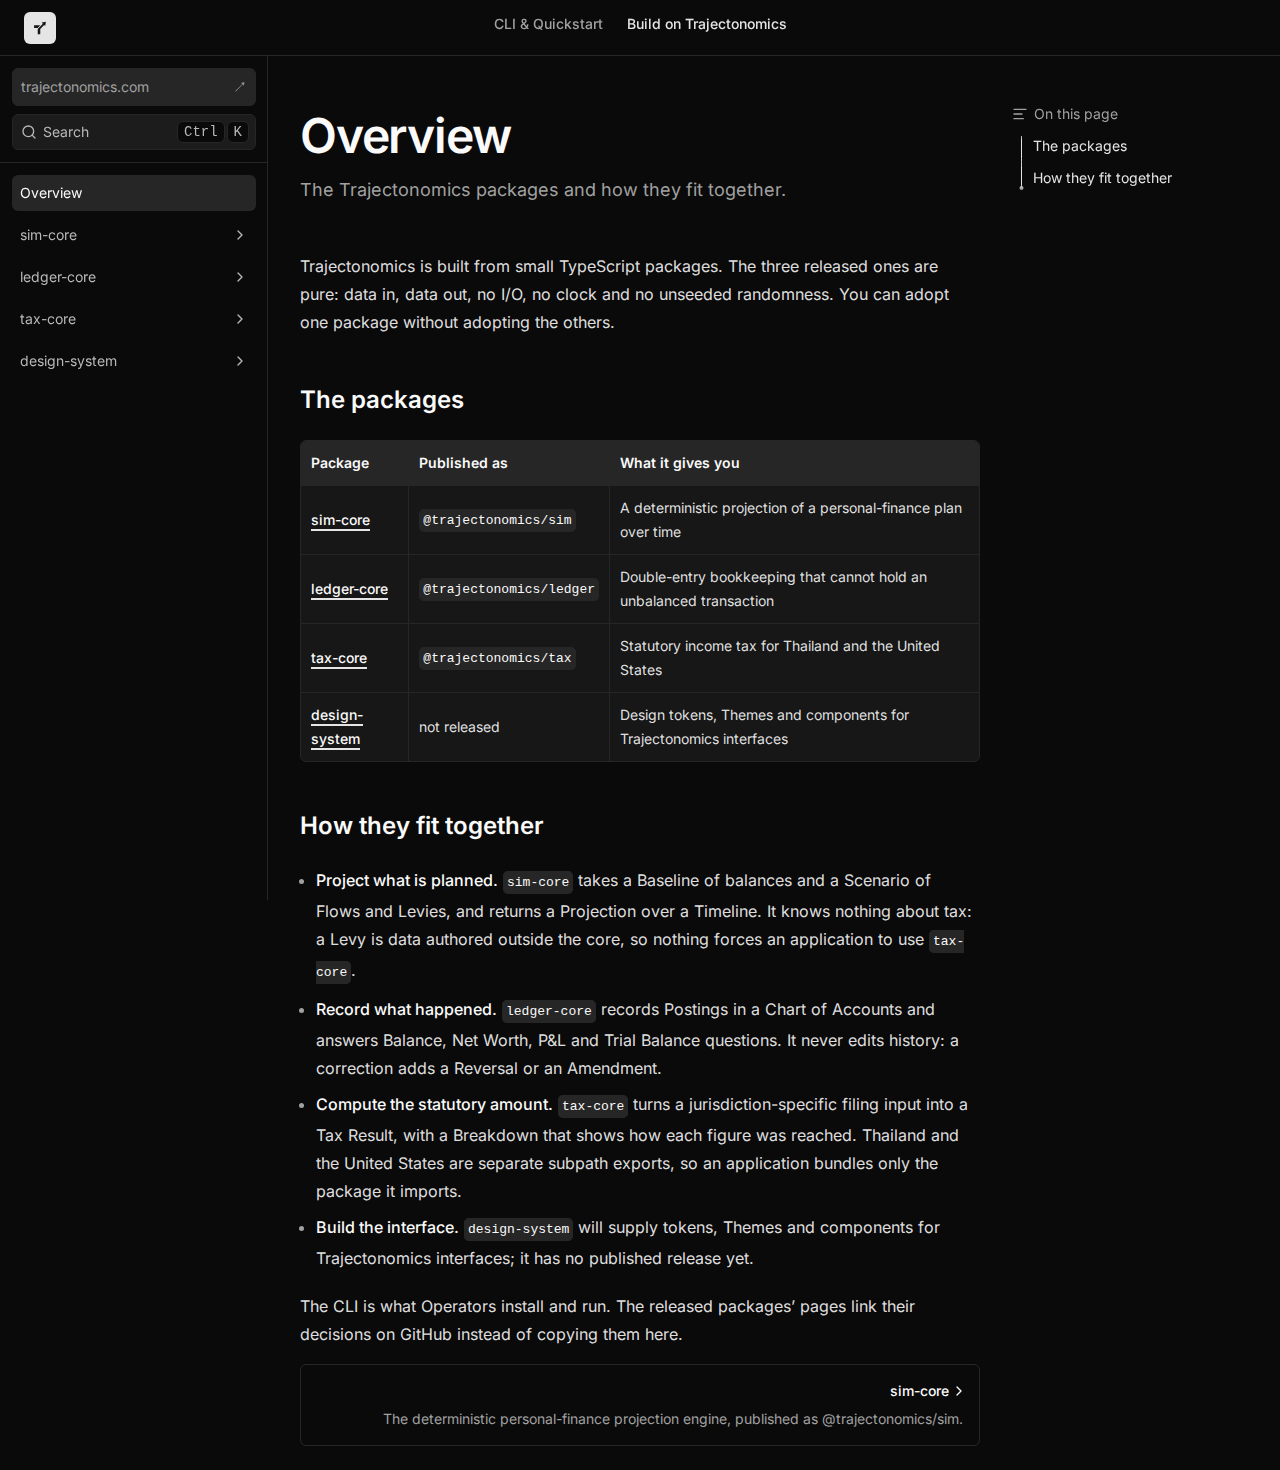
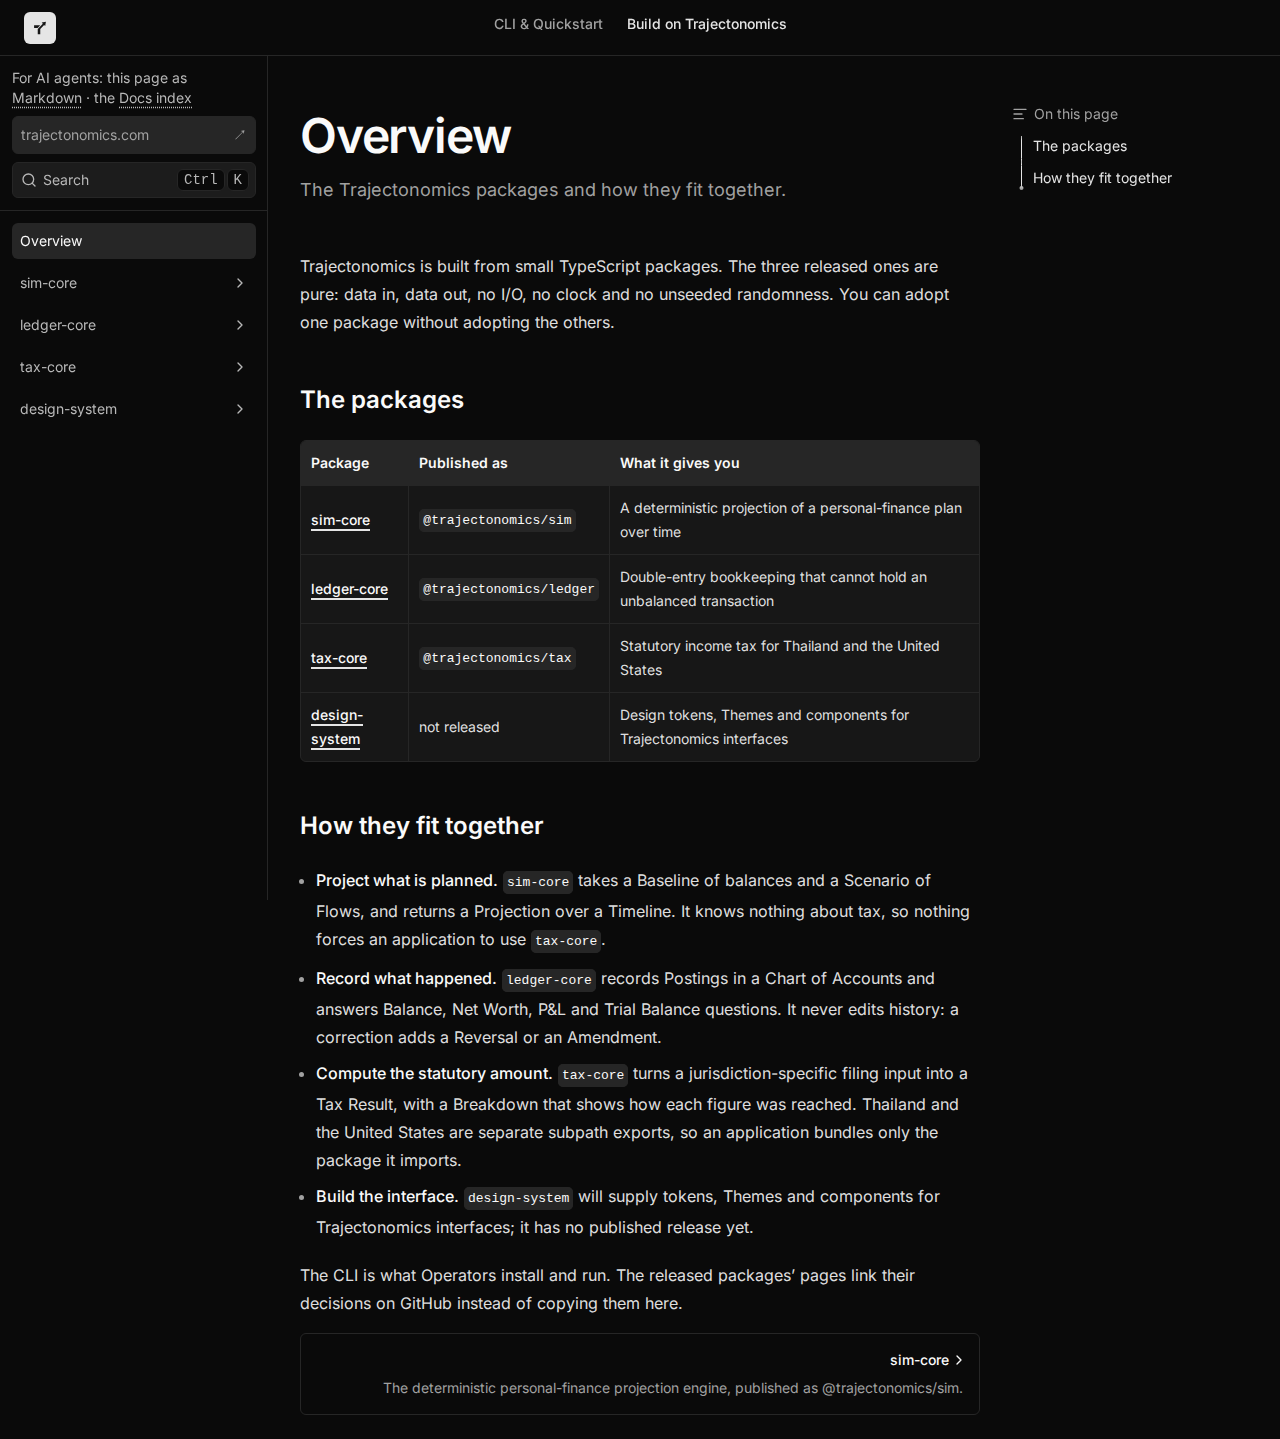
feat: point every page at its Markdown twin and the Docs index
Every page with a Markdown twin carries the one muted agent line, "For AI
agents: this page as Markdown · the Docs index", in its top utility area:
at the top of the docs pages' sidebar block, above the Site Home button,
and in the Landing Page's header link row beside Site Home, never in its
body. Each page's head carries the alternate Markdown link.

The line is one shared component; its Markdown link is derived from the
current pathname, which the Client Router announces with
`astro:page-load`, so the link names the page the reader is on rather
than the page the island rendered on. Both links load their own document:
a twin and the index are not pages to swap in.

The 404 page keeps the home layout's shared options, so it carries
neither the line nor an alternate link. The curated screenshots at 1280,
2000 and 390px in both committed theme sets are regenerated, and
e2e/agent-line.e2e.ts holds the line, the head link, their placements and
the client-side navigation.

Closes #131

diff --git a/e2e/agent-line.e2e.ts b/e2e/agent-line.e2e.ts
@@ -1,0 +1,184 @@
+import type { Page } from "@playwright/test"
+import { twinPath } from "../src/lib/agent/twin-path"
+import {
+	AGENT_LINE_PREFIX,
+	AGENT_LINE_SEPARATOR,
+	DOCS_INDEX_LINK_NAME,
+	MARKDOWN_LINK_NAME,
+} from "../src/lib/agent-line"
+import { DOCS_BASE_PATH, DOCS_INDEX_PATH, TABS, tabUrl } from "../src/lib/tabs"
+import { builtPages, NOT_FOUND_PATH, openPage, pageName } from "./built-site"
+import { openPhoneMenu, openSidebarDrawer, waitForIsland } from "./docs-portal"
+import { expect, test } from "./fixtures"
+import { TEST_VIEWPORT_HEIGHT_PX } from "./viewports"
+
+/** The Landing Page, whose line sits in the header link row rather than in a sidebar block. */
+const LANDING_PATH = `${DOCS_BASE_PATH}/`
+
+/** The line as the reader reads it: the words, then each link under the name it carries. */
+const SENTENCE = `${AGENT_LINE_PREFIX} ${MARKDOWN_LINK_NAME} ${AGENT_LINE_SEPARATOR} the ${DOCS_INDEX_LINK_NAME}`
+
+/** The line the page shows; a docs page renders one copy in the sidebar and one in the drawer. */
+function agentLine(page: Page) {
+	return page.locator("[data-agent-line]").filter({ visible: true })
+}
+
+/** The page's alternate Markdown link, the one an Agent reads instead of the affordance. */
+function alternateLink(page: Page) {
+	return page.locator('link[rel="alternate"][type="text/markdown"]')
+}
+
+/** The page's two links, each under the name the brief gives it. */
+async function expectLinks(page: Page, path: string): Promise<void> {
+	const line = agentLine(page)
+	await expect(line, `${path} carries one visible line`).toHaveCount(1)
+	await expect(line).toHaveText(SENTENCE)
+	await expect(
+		line.getByRole("link", { name: MARKDOWN_LINK_NAME, exact: true }),
+		`${path} points at its Markdown twin`,
+	).toHaveAttribute("href", twinPath(path))
+	await expect(
+		line.getByRole("link", { name: DOCS_INDEX_LINK_NAME, exact: true }),
+		`${path} points at the Docs index`,
+	).toHaveAttribute("href", DOCS_INDEX_PATH)
+}
+
+for (const widthPx of [1280, 2000]) {
+	for (const path of builtPages()) {
+		test(`the ${pageName(path)} page points at its Markdown twin at ${widthPx}px`, async ({
+			page,
+		}) => {
+			await page.setViewportSize({ width: widthPx, height: TEST_VIEWPORT_HEIGHT_PX })
+			await openPage(page, path)
+			await waitForIsland(page)
+
+			await expect(alternateLink(page)).toHaveAttribute("href", twinPath(path))
+			await expectLinks(page, path)
+		})
+	}
+}
+
+test("the 404 page carries neither the line nor an alternate Markdown link", async ({ page }) => {
+	await openPage(page, NOT_FOUND_PATH)
+	await waitForIsland(page)
+
+	await expect(page.locator("[data-agent-line]")).toHaveCount(0)
+	await expect(alternateLink(page)).toHaveCount(0)
+})
+
+test("the docs line sits at the top of the sidebar block, above the Site Home button", async ({
+	page,
+}) => {
+	await page.setViewportSize({ width: 1280, height: TEST_VIEWPORT_HEIGHT_PX })
+	await openPage(page, tabUrl(TABS[0]))
+	await waitForIsland(page)
+
+	const block = page.locator("#nd-sidebar [data-sidebar-top-block]")
+	await expect(block.locator("[data-agent-line]")).toBeVisible()
+	const lineAboveSiteHome = await block.evaluate((element) => {
+		const line = element.querySelector("[data-agent-line]")
+		const siteHome = element.querySelector("[data-site-home]")
+		if (line === null || siteHome === null) return false
+		const following = line.compareDocumentPosition(siteHome) & Node.DOCUMENT_POSITION_FOLLOWING
+		return following !== 0
+	})
+	expect(lineAboveSiteHome, "the line stands above the Site Home button").toBe(true)
+	// The docs header keeps the mark and the Tabs: the line never moves into the header (ADR 0009).
+	await expect(page.locator("#nd-subnav [data-agent-line]")).toHaveCount(0)
+})
+
+test("the docs line is behind the Open Sidebar control at 390px", async ({ page }) => {
+	await page.setViewportSize({ width: 390, height: TEST_VIEWPORT_HEIGHT_PX })
+	await openPage(page, tabUrl(TABS[0]))
+	await waitForIsland(page)
+	await expect(agentLine(page)).toHaveCount(0)
+
+	await openSidebarDrawer(page)
+
+	await expectLinks(page, tabUrl(TABS[0]))
+	await expect(page.locator("#nd-sidebar-mobile [data-agent-line]")).toBeVisible()
+})
+
+test("the line's two links load the twin and the index as their own documents", async ({
+	page,
+}) => {
+	const from = tabUrl(TABS[0])
+	await page.setViewportSize({ width: 1280, height: TEST_VIEWPORT_HEIGHT_PX })
+	await openPage(page, from)
+	await waitForIsland(page)
+	const documents: string[] = []
+	page.on("request", (request) => {
+		if (request.resourceType() === "document") documents.push(new URL(request.url()).pathname)
+	})
+	const line = page.locator("#nd-sidebar [data-agent-line]")
+
+	await line.getByRole("link", { name: MARKDOWN_LINK_NAME, exact: true }).click()
+	await expect(page).toHaveURL(twinPath(from))
+	await expect(page.locator("body")).toContainText("# Quickstart")
+	expect(documents, "the twin loaded as its own document").toEqual([twinPath(from)])
+
+	documents.length = 0
+	await openPage(page, from)
+	await waitForIsland(page)
+	documents.length = 0
+	await page
+		.locator("#nd-sidebar [data-agent-line]")
+		.getByRole("link", { name: DOCS_INDEX_LINK_NAME, exact: true })
+		.click()
+	await expect(page).toHaveURL(DOCS_INDEX_PATH)
+	await expect(page.locator("body")).toContainText("# Trajectonomics Docs")
+	expect(documents, "the index loaded as its own document").toEqual([DOCS_INDEX_PATH])
+})
+
+test("the Landing Page's line sits in its header link row, never in its body", async ({ page }) => {
+	await page.setViewportSize({ width: 1280, height: TEST_VIEWPORT_HEIGHT_PX })
+	await openPage(page, LANDING_PATH)
+	await waitForIsland(page)
+
+	await expectLinks(page, LANDING_PATH)
+	// The header's own link row carries it; the page body keeps its own parts (ADR 0009's amendment).
+	const headerLine = page.locator("#nd-nav").locator("[data-agent-line]").filter({ visible: true })
+	await expect(headerLine).toHaveCount(1)
+	await expect(page.locator("#nd-home-layout > div [data-agent-line]")).toHaveCount(0)
+})
+
+test("the Landing Page's line is in the header menu at 390px", async ({ page }) => {
+	await page.setViewportSize({ width: 390, height: TEST_VIEWPORT_HEIGHT_PX })
+	await openPage(page, LANDING_PATH)
+	await waitForIsland(page)
+	await expect(agentLine(page)).toHaveCount(0)
+
+	await openPhoneMenu(page)
+
+	await expectLinks(page, LANDING_PATH)
+	const menuLine = page.locator("#nd-nav").locator("[data-agent-line]").filter({ visible: true })
+	await expect(menuLine).toHaveCount(1)
+})
+
+test("the line's Markdown link names the page the reader lands on, not the one it rendered on", async ({
+	page,
+}) => {
+	const from = tabUrl(TABS[0])
+	const to = `${from}installation/`
+	await page.setViewportSize({ width: 1280, height: TEST_VIEWPORT_HEIGHT_PX })
+	let documentRequests = 0
+	page.on("request", (request) => {
+		if (request.resourceType() === "document") documentRequests++
+	})
+	await openPage(page, from)
+	await waitForIsland(page)
+	const line = page.locator("#nd-sidebar [data-agent-line]")
+	await expect(line.getByRole("link", { name: MARKDOWN_LINK_NAME })).toHaveAttribute(
+		"href",
+		twinPath(from),
+	)
+
+	await page.locator("#nd-sidebar").getByRole("link", { name: "Installation" }).click()
+
+	await expect(page).toHaveURL(to)
+	await expect(line.getByRole("link", { name: MARKDOWN_LINK_NAME })).toHaveAttribute(
+		"href",
+		twinPath(to),
+	)
+	expect(documentRequests, "the reader stayed in one document").toBe(1)
+})

diff --git a/src/components/docs-shell.tsx b/src/components/docs-shell.tsx
@@ -6,6 +6,7 @@ import {
 } from "fumadocs-ui/layouts/shared/slots/search-trigger"
 import type { FC, ReactNode } from "react"
 import { siteHomeButton } from "../lib/layout.shared"
+import { AgentLine } from "./agent-line"
 
 /** The header's Tab treatment: Fumadocs' own, carried over from the row this change removes. */
 const TAB_CLASS =
@@ -55,6 +56,11 @@ export const noHeaderSearchTrigger: {
 
 export interface DocsSidebarBannerProps {
 	/**
+	 * The page the block first rendered on. The agent line follows the reader from there through the
+	 * Client Router, which keeps this block mounted (see `AgentLine`).
+	 */
+	readonly pageUrl: string
+	/**
 	 * What Fumadocs draws in a sidebar header: the Tab dropdown at every width, and in the drawer the
 	 * close button beside it. The block places them below its hairline rather than re-creating them.
 	 */
@@ -62,15 +68,17 @@ export interface DocsSidebarBannerProps {
 }
 
 /**
- * The sidebar's top block: the way back to the Site Home above the search trigger, a hairline under
- * them, then the header children Fumadocs passes a banner — its Tab dropdown, and in the drawer its
- * close button, drawn by the library rather than by this block. The tree follows the block; from
- * `lg` up it follows the hairline, because the dropdown is hidden there (ADR 0009).
+ * The sidebar's top block: the agent line and the way back to the Site Home above the search
+ * trigger, a hairline under them, then the header children Fumadocs passes a banner — its Tab
+ * dropdown, and in the drawer its close button, drawn by the library rather than by this block. The
+ * tree follows the block; from `lg` up it follows the hairline, because the dropdown is hidden
+ * there (ADR 0009, ADR 0010).
  */
-export function DocsSidebarBanner({ children }: DocsSidebarBannerProps) {
+export function DocsSidebarBanner({ pageUrl, children }: DocsSidebarBannerProps) {
 	return (
 		<div data-sidebar-top-block="" className="flex flex-col">
 			<div className="flex flex-col gap-2 border-b p-3">
+				<AgentLine pageUrl={pageUrl} />
 				{siteHomeButton()}
 				<FullSearchTrigger hideIfDisabled />
 			</div>

diff --git a/src/lib/layout.shared.tsx b/src/lib/layout.shared.tsx
@@ -1,4 +1,5 @@
 import type { BaseLayoutProps, LinkItemType } from "fumadocs-ui/layouts/shared"
+import { AgentLine } from "../components/agent-line"
 import { HeaderMark } from "../components/header-mark"
 import { SITE_HOME_LABEL, SITE_HOME_LOAD, SITE_HOME_PATH } from "./site-home"
 import { DOCS_BASE_PATH } from "./tabs"
@@ -54,6 +55,19 @@ export function siteHomeButton() {
 }
 
 /**
+ * The agent line the Landing Page's header carries beside the Site Home link (ADR 0010): one item
+ * for the header's link row from `sm` up and one for the phone menu, because the home layout nests
+ * a custom item differently in each.
+ */
+function homeAgentLineLinks(pageUrl: string): readonly LinkItemType[] {
+	const line = <AgentLine pageUrl={pageUrl} />
+	return [
+		{ type: "custom", on: "nav", children: <li>{line}</li> },
+		{ type: "custom", on: "menu", children: line },
+	]
+}
+
+/**
  * Layout options shared by every Docs Portal page of `layout`. Every page carries the Portal's one
  * header mark, here and nowhere else, so a page cannot choose another (docs#75, ADR 0009). The docs
  * pages carry no header link items: the Site Home is the sidebar's button, and the Tabs are the
@@ -68,4 +82,14 @@ export function baseOptions(layout: PortalLayout): BaseLayoutProps {
 		// one. Light's return flips this option and deletes the provider's forced value.
 		themeSwitch: { enabled: false },
 	}
+}
+
+/**
+ * Layout options for the Landing Page: the home layout's shared ones plus the agent line its header
+ * carries beside the Site Home link (ADR 0010). The 404 page keeps `baseOptions("home")`: it has no
+ * Markdown twin, so it carries neither that line nor an alternate link.
+ */
+export function landingOptions(pageUrl: string): BaseLayoutProps {
+	const options = baseOptions("home")
+	return { ...options, links: [...(options.links ?? []), ...homeAgentLineLinks(pageUrl)] }
 }

diff --git a/src/components/agent-line.tsx b/src/components/agent-line.tsx
@@ -1,0 +1,47 @@
+import { useEffect, useState } from "react"
+import { twinPath } from "../lib/agent/twin-path"
+import {
+	AGENT_LINE_LOAD,
+	AGENT_LINE_PREFIX,
+	AGENT_LINE_SEPARATOR,
+	DOCS_INDEX_LINK_NAME,
+	MARKDOWN_LINK_NAME,
+} from "../lib/agent-line"
+import { DOCS_INDEX_PATH } from "../lib/tabs"
+
+/** One of the line's two links: the line is body text, so a link adds an underline and nothing else. */
+const LINK_CLASS =
+	"underline decoration-dotted underline-offset-4 transition-colors hover:text-fd-accent-foreground"
+
+/**
+ * The path the reader is on. The docs pages' line lives in a React island the Client Router keeps
+ * mounted across navigations, so a pathname captured at first render would name the page the reader
+ * arrived on; the router announces each navigation with `astro:page-load`, and the line follows it.
+ */
+function useCurrentPathname(initialPathname: string): string {
+	const [pathname, setPathname] = useState(initialPathname)
+	useEffect(() => {
+		const follow = () => setPathname(window.location.pathname)
+		follow()
+		document.addEventListener("astro:page-load", follow)
+		return () => document.removeEventListener("astro:page-load", follow)
+	}, [])
+	return pathname
+}
+
+/** The one muted line pointing a reader, and an Agent, at this page's Markdown twin and the Docs index. */
+export function AgentLine({ pageUrl }: { readonly pageUrl: string }) {
+	const twin = twinPath(useCurrentPathname(pageUrl))
+	return (
+		<p data-agent-line="" className="text-sm text-fd-muted-foreground">
+			{AGENT_LINE_PREFIX}{" "}
+			<a href={twin} {...AGENT_LINE_LOAD} className={LINK_CLASS}>
+				{MARKDOWN_LINK_NAME}
+			</a>{" "}
+			{AGENT_LINE_SEPARATOR} the{" "}
+			<a href={DOCS_INDEX_PATH} {...AGENT_LINE_LOAD} className={LINK_CLASS}>
+				{DOCS_INDEX_LINK_NAME}
+			</a>
+		</p>
+	)
+}

diff --git a/src/lib/agent-line.ts b/src/lib/agent-line.ts
@@ -1,0 +1,26 @@
+/**
+ * The line every page with a Markdown twin carries: the words before its two links, the names the
+ * links are read by, and the separator between them. Pure, so a test asserts the pointer a reader
+ * meets without loading the React shell (ADR 0010).
+ */
+
+/** The words the line shows before its two links. */
+export const AGENT_LINE_PREFIX = "For AI agents: this page as"
+
+/** The name of the line's link to the page's Markdown twin. */
+export const MARKDOWN_LINK_NAME = "Markdown"
+
+/** The name of the line's link to the Docs index, the file an Agent reads first. */
+export const DOCS_INDEX_LINK_NAME = "Docs index"
+
+/** The separator the line shows between its two links. */
+export const AGENT_LINE_SEPARATOR = "·"
+
+/**
+ * Attributes that load a twin or the Docs index as its own document: neither is a page the Client
+ * Router can swap in, so neither is prefetched or intercepted (ADR 0010).
+ */
+export const AGENT_LINE_LOAD = {
+	"data-astro-reload": true,
+	"data-astro-prefetch": "false",
+} as const

diff --git a/src/components/landing.tsx b/src/components/landing.tsx
@@ -1,5 +1,5 @@
 import { HomeLayout } from "fumadocs-ui/layouts/home"
-import { baseOptions } from "../lib/layout.shared"
+import { landingOptions } from "../lib/layout.shared"
 import { PORTAL_NAME, PORTAL_PURPOSE } from "../lib/portal"
 import { SITE_HOME_LOAD, SITE_HOME_PATH } from "../lib/site-home"
 import { TABS, tabUrl } from "../lib/tabs"
@@ -54,7 +54,7 @@ export interface LandingProps extends ProviderProps {
 export function Landing({ releaseLine, ...props }: LandingProps) {
 	return (
 		<Provider {...props}>
-			<HomeLayout {...baseOptions("home")}>
+			<HomeLayout {...landingOptions(props.pathname)}>
 				<div className="mx-auto flex w-full max-w-(--fd-layout-width) flex-1 flex-col gap-8 px-4 py-16 md:px-6">
 					<div className="flex flex-col gap-3">
 						<h1 className="text-3xl font-semibold tracking-tight">{PORTAL_NAME}</h1>

diff --git a/src/components/docs.tsx b/src/components/docs.tsx
@@ -55,7 +55,7 @@ export function Docs({ tree, title, description, toc, children, ...props }: Docs
 				sidebar={{
 					className: "border-e",
 					collapsible: false,
-					banner: (bannerProps) => <DocsSidebarBanner {...bannerProps} />,
+					banner: (bannerProps) => <DocsSidebarBanner {...bannerProps} pageUrl={props.pathname} />,
 				}}
 				slots={{ searchTrigger: noHeaderSearchTrigger }}
 				containerProps={{ style: { gridTemplate: SHELL_GRID } }}

diff --git a/src/lib/tabs.ts b/src/lib/tabs.ts
@@ -63,3 +63,6 @@ export const SEARCH_INDEX_PATH = `${DOCS_BASE_PATH}/api/search.json`
 
 /** URL path of the static Sitemap, exported at build time (see `pages/sitemap.xml.ts`). */
 export const SITEMAP_PATH = `${DOCS_BASE_PATH}/sitemap.xml`
+
+/** URL path of the Docs index, exported at build time (see `pages/llms.txt.ts`). */
+export const DOCS_INDEX_PATH = `${DOCS_BASE_PATH}/llms.txt`
